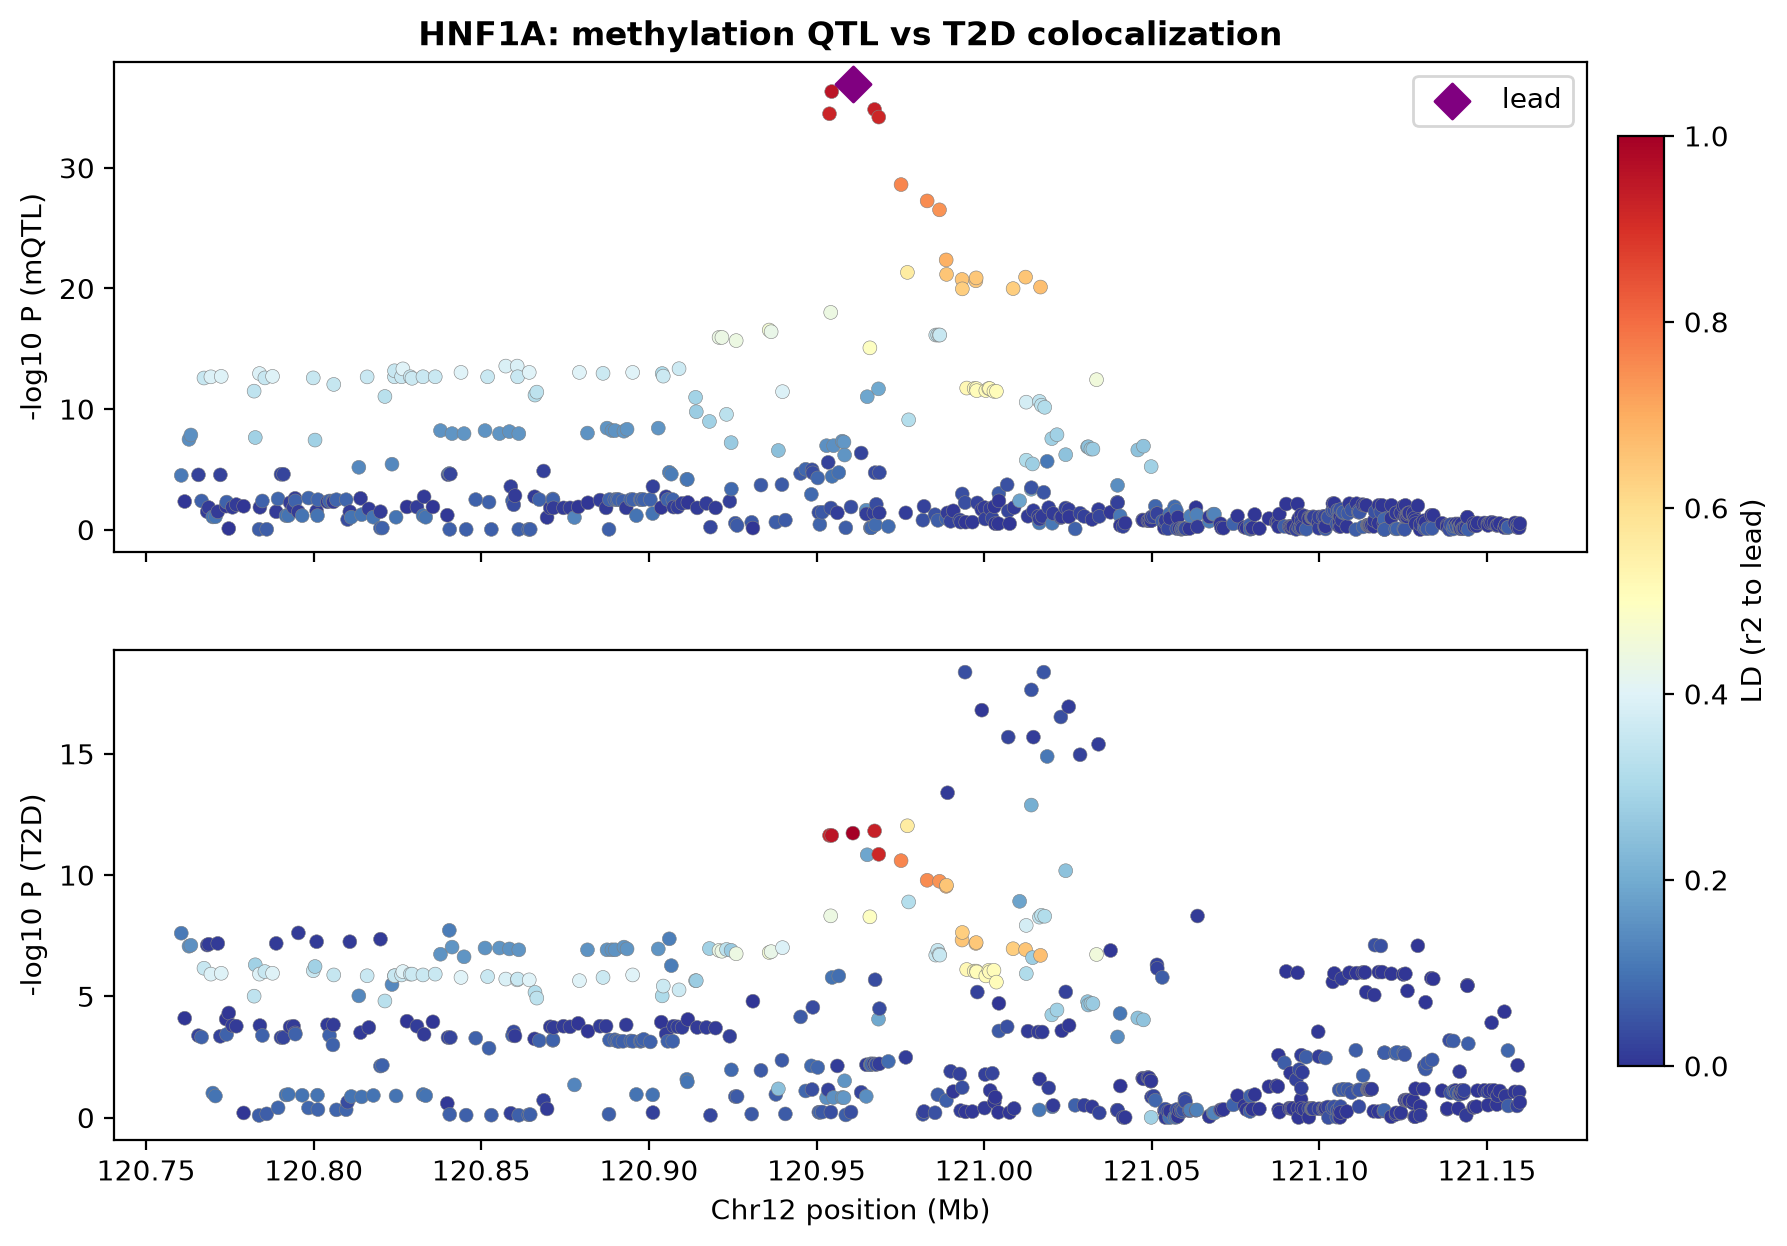
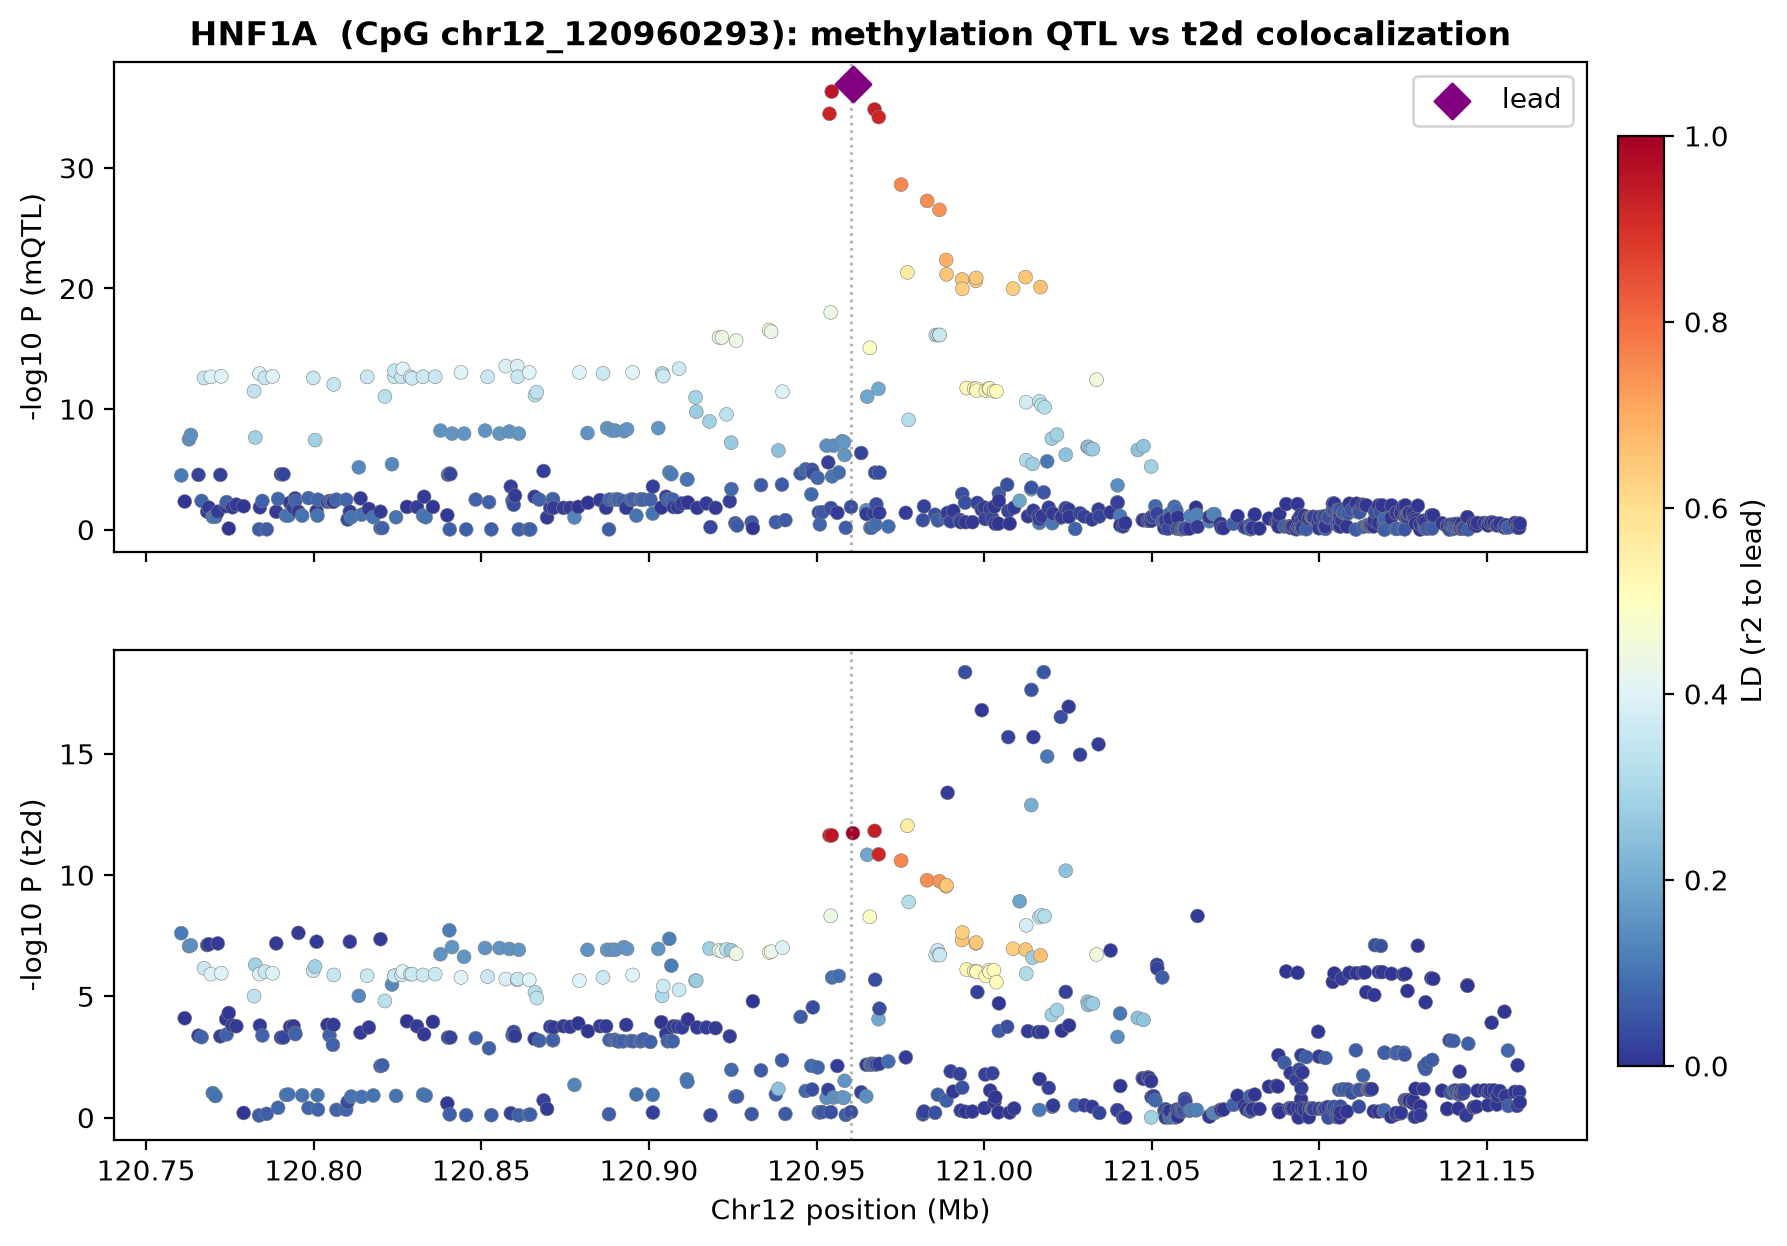
Coloc plots relabelled: CpG in title + CpG position marker + eGFR label fixed (CpG-centric annotation)

Changed region(s): [[0.0923, 0.0, 0.831, 0.061], [0.0, 0.6404, 0.0308, 0.7929]]

diff --git a/scripts/coloc/coloc_regional.py b/scripts/coloc/coloc_regional.py
@@ -36,9 +36,9 @@ mq['r2']=r2
 fig,ax=plt.subplots(2,1,figsize=(10,7),sharex=True)
 sc=ax[0].scatter(mq.pos/1e6,-np.log10(mq.pval_nominal),c=mq.r2,cmap='RdYlBu_r',vmin=0,vmax=1,s=25,edgecolor='grey',linewidth=0.2)
 ax[0].scatter(mq.loc[mq.variant_id==lead,'pos']/1e6,-np.log10(mq.pval_nominal.min()),marker='D',c='purple',s=80,zorder=5,label='lead')
-ax[0].set_ylabel('-log10 P (mQTL)'); ax[0].set_title(f'{gene}: methylation QTL vs {disease.upper()} colocalization',fontweight='bold')
+ax[0].axvline(cpos/1e6,color='grey',ls=':',lw=1,alpha=0.6); ax[0].set_ylabel('-log10 P (mQTL)'); ax[0].set_title(f'{gene}  (CpG {cpg}): methylation QTL vs {disease} colocalization',fontweight='bold')
 ax[0].legend()
 ax[1].scatter(mq.pos/1e6,-np.log10(mq.gwas_p),c=mq.r2,cmap='RdYlBu_r',vmin=0,vmax=1,s=25,edgecolor='grey',linewidth=0.2)
-ax[1].set_ylabel(f'-log10 P ({disease.upper()})'); ax[1].set_xlabel(f'Chr{chrn} position (Mb)')
+ax[1].axvline(cpos/1e6,color='grey',ls=':',lw=1,alpha=0.6); ax[1].set_ylabel(f'-log10 P ({disease})'); ax[1].set_xlabel(f'Chr{chrn} position (Mb)')
 plt.colorbar(sc,ax=ax,label='LD (r2 to lead)',fraction=0.03,pad=0.02)
 plt.savefig(out); print(f"saved {out}: {len(mq)} variants, lead={lead}")
